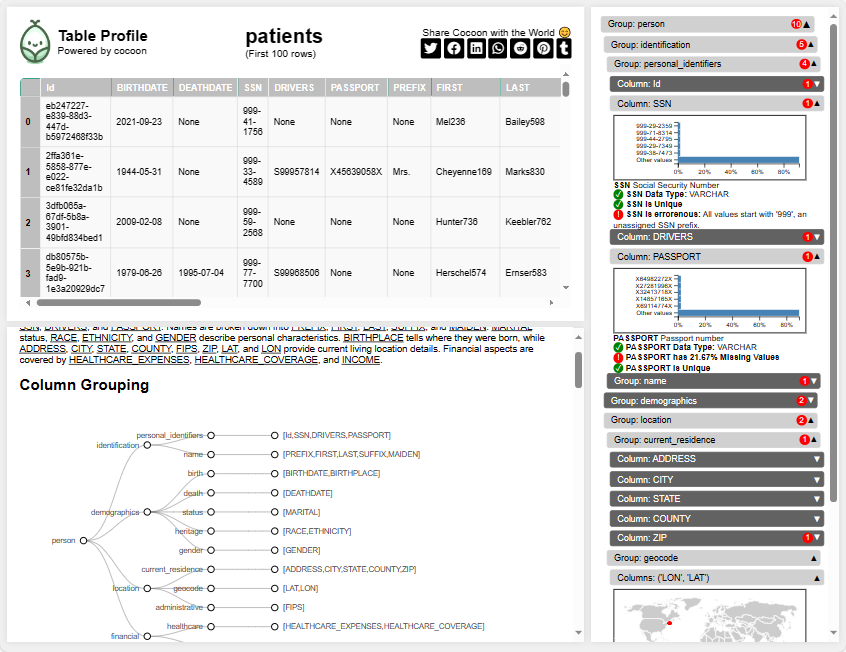
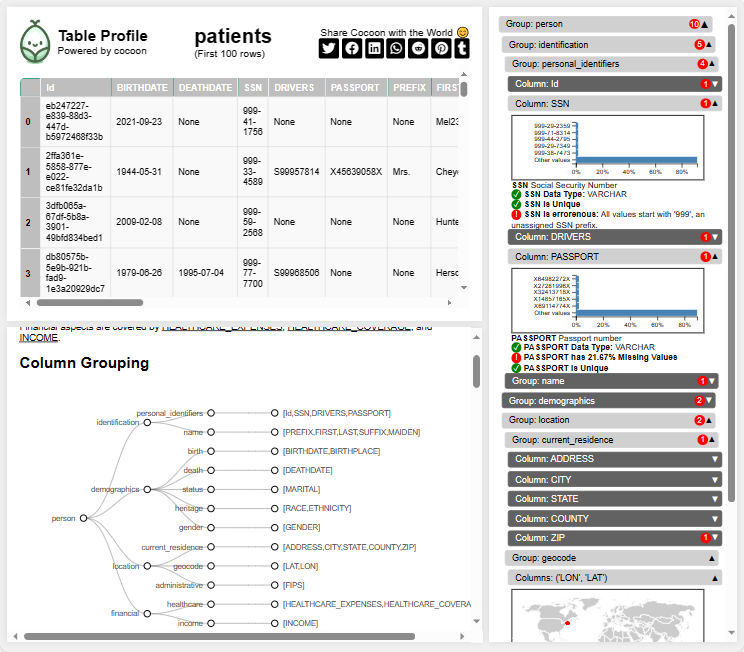
update image

diff --git a/cocoon_data/__init__.py b/cocoon_data/__init__.py
@@ -17303,11 +17303,11 @@ body {{
     padding: 15px;
     box-shadow: 0 0 10px rgba(0,0,0,0.1);
     overflow-y: auto; /* Enable scrolling for the panel */
-    width: 400px;
+    width: 360px;
   }}
 
   .indent {{
-      padding-left: 20px; /* Increase as needed for deeper indents */
+      padding-left: 5px; /* Increase as needed for deeper indents */
       font-size: small;
       display: none;
   }}
@@ -17322,6 +17322,7 @@ body {{
     margin-bottom: 6px; /* Space between card items */
     padding: 3px;
     padding-left: 10px;
+    width: 320px;
   }}
 
   .card-item-collapsed {{

diff --git a/setup.py b/setup.py
@@ -2,7 +2,7 @@ from setuptools import setup, find_packages
 
 setup(
     name="cocoon_data",
-    version="0.1.36",
+    version="0.1.37",
     packages=find_packages(),
     install_requires=open("requirements.txt").read().splitlines(),
     extras_require={
